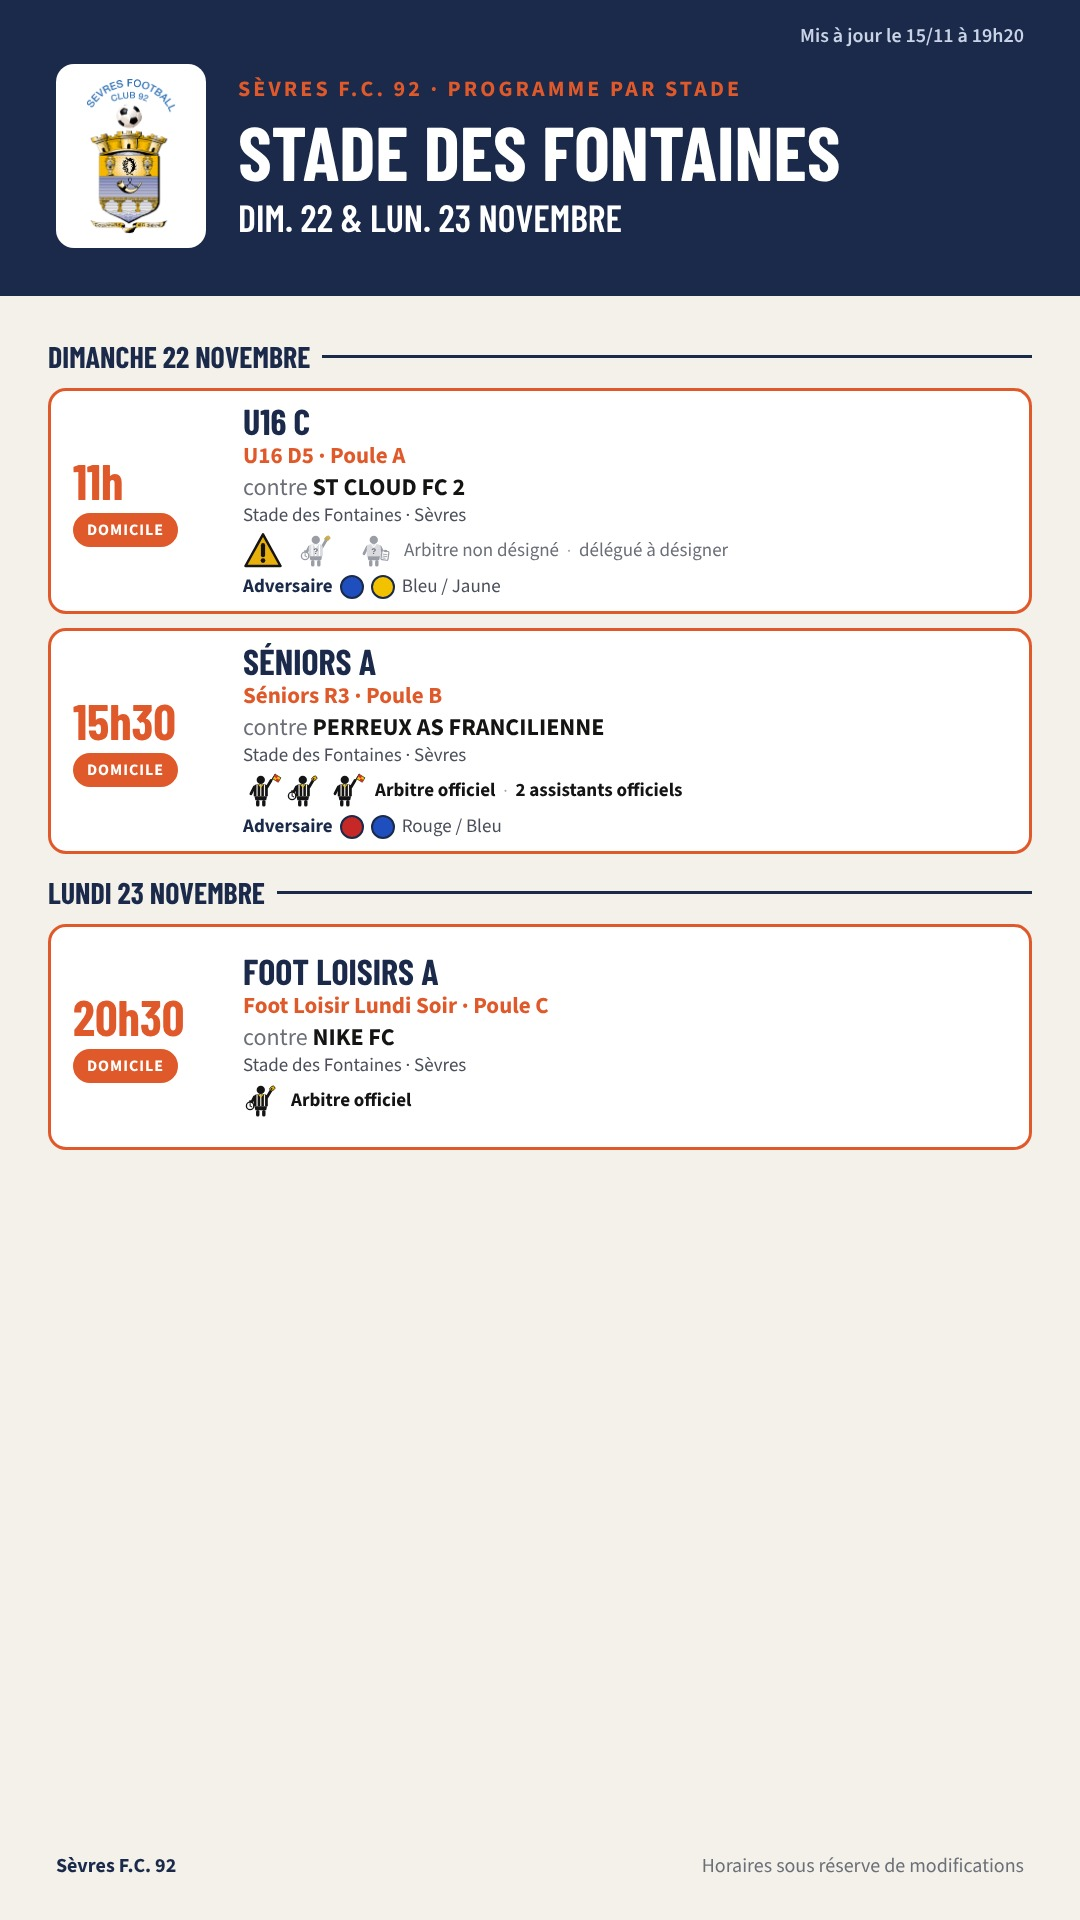
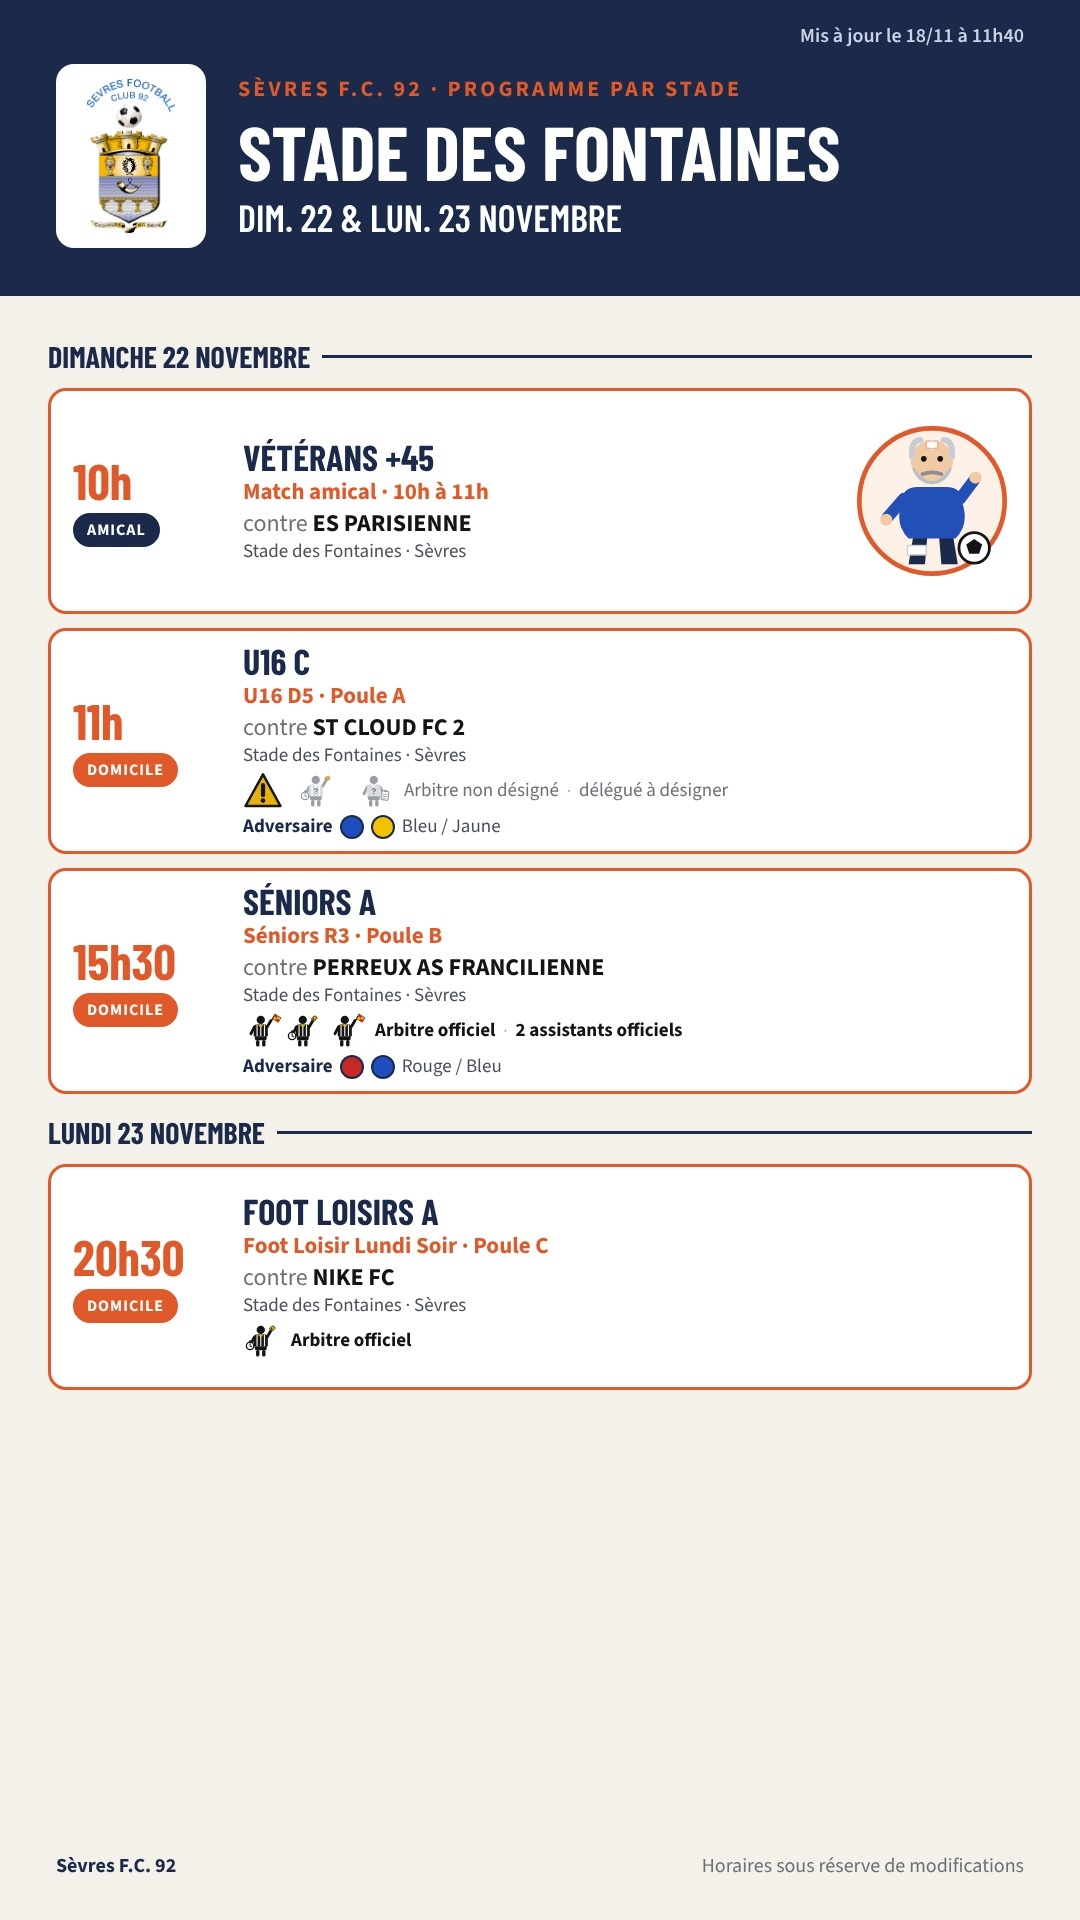
Week-end du 21-23 nov. : amicaux et matchs entre nous ajoutés (U10, U11, U13, U14, Vétérans +45)
Claude-Session: https://claude.ai/code/session_01MqmjTwM8J4v4b6iCDjTbE8

diff --git a/index.html b/index.html
@@ -61,7 +61,7 @@ footer .wrap{padding-block:16px 28px}
 <header><div class="wrap">
   <div class="brand">
     <img src="logo.png" alt="Logo Sèvres F.C. 92">
-    <div><h1>Le week-end <em>du Sèvres F.C. 92</em></h1><span class="maj"><!--MAJ-->Mis à jour le 15/11 à 19h22<!--/MAJ--></span><p>Tous les matchs du club, à domicile et à l'extérieur</p></div>
+    <div><h1>Le week-end <em>du Sèvres F.C. 92</em></h1><span class="maj"><!--MAJ-->Mis à jour le 18/11 à 11h41<!--/MAJ--></span><p>Tous les matchs du club, à domicile et à l'extérieur</p></div>
   </div>
   <div class="weeks" id="weeks" role="group" aria-label="Choisir le week-end"></div>
 </div></header>
